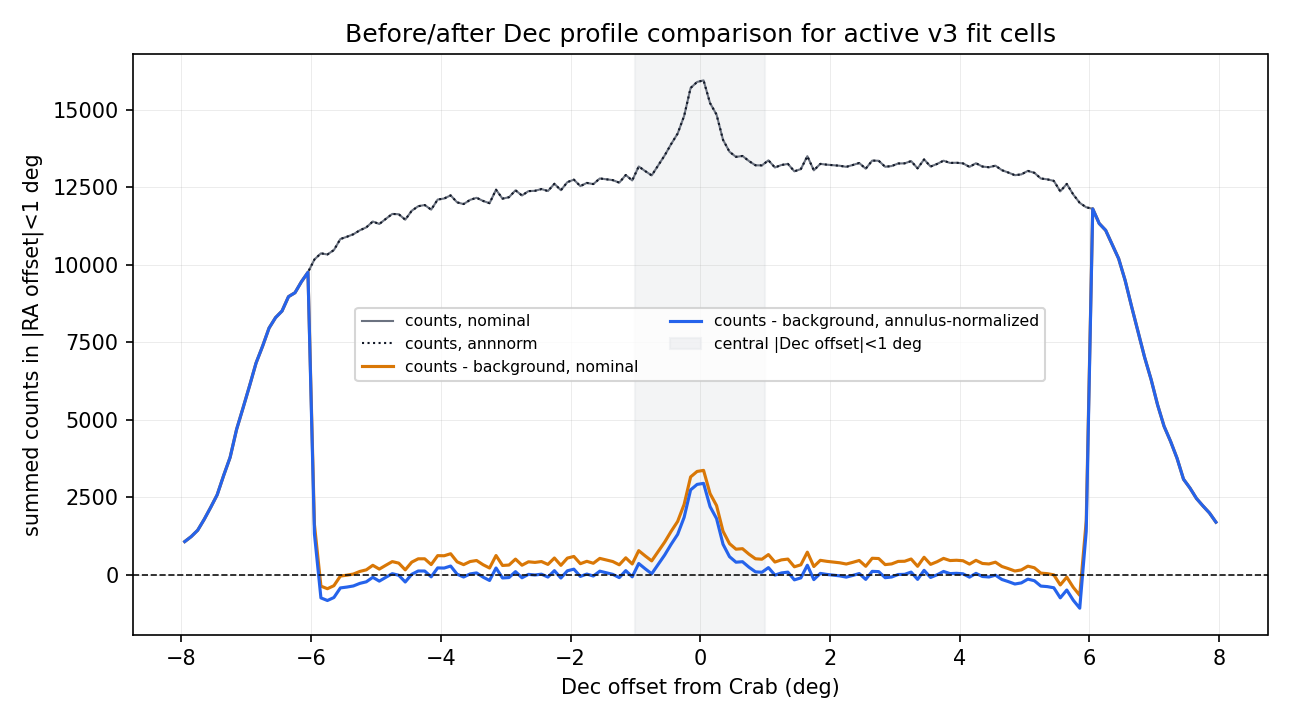
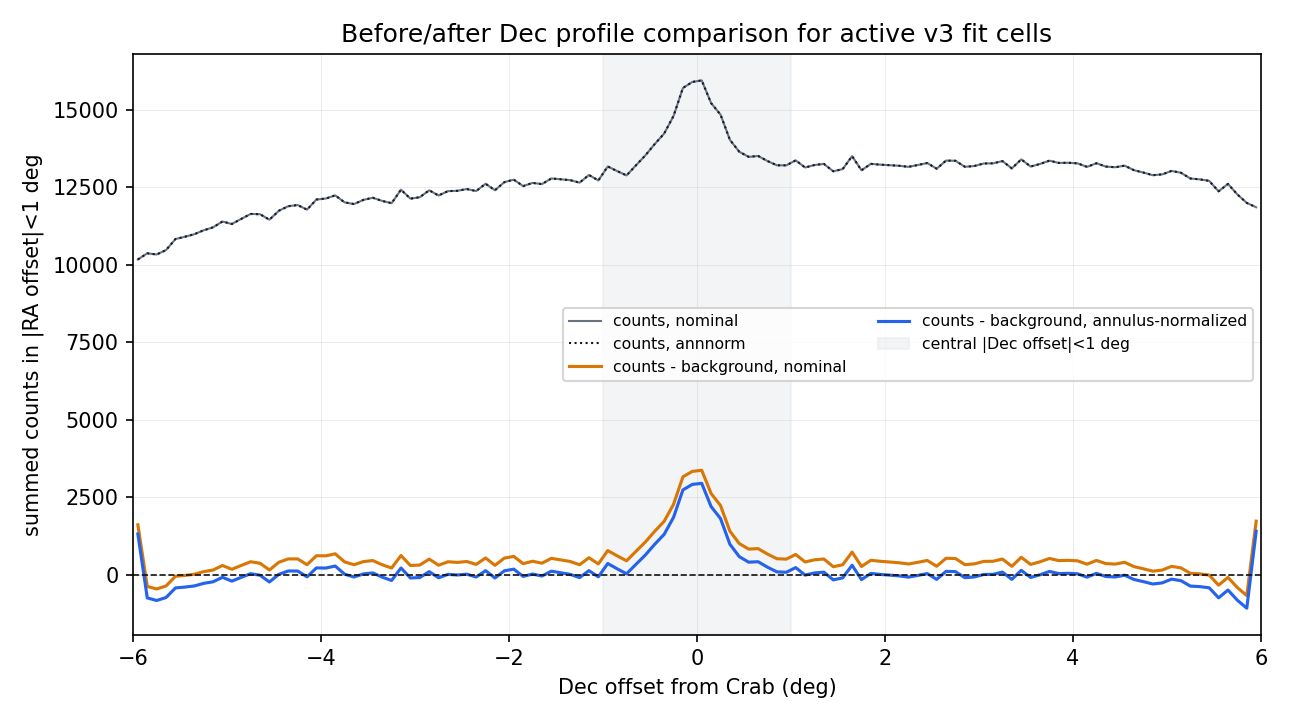
Limit annnorm Dec profile comparison to six degrees

diff --git a/apply/report/build_v3_annnorm_diagnostics.py b/apply/report/build_v3_annnorm_diagnostics.py
@@ -208,6 +208,12 @@ def plot_dec_profiles(nominal_npz: Path, annnorm_npz: Path, output: Path, fit_id
         return None
     y, counts_nom, excess_nom = nominal
     _, counts_new, excess_new = annnorm
+    roi_mask = np.abs(y) <= 6.0
+    y = y[roi_mask]
+    counts_nom = counts_nom[roi_mask]
+    excess_nom = excess_nom[roi_mask]
+    counts_new = counts_new[roi_mask]
+    excess_new = excess_new[roi_mask]
     plt = setup_matplotlib()
     fig, ax = plt.subplots(figsize=(8.6, 4.8), dpi=150)
     ax.plot(y, counts_nom, color="#6b7280", lw=1.0, label="counts, nominal")
@@ -216,6 +222,7 @@ def plot_dec_profiles(nominal_npz: Path, annnorm_npz: Path, output: Path, fit_id
     ax.plot(y, excess_new, color="#2563eb", lw=1.5, label="counts - background, annulus-normalized")
     ax.axhline(0.0, color="#111111", lw=0.8, ls="--")
     ax.axvspan(-1.0, 1.0, color="#e5e7eb", alpha=0.45, label="central |Dec offset|<1 deg")
+    ax.set_xlim(-6.0, 6.0)
     ax.set_xlabel("Dec offset from Crab (deg)")
     ax.set_ylabel("summed counts in |RA offset|<1 deg")
     ax.set_title("Before/after Dec profile comparison for active v3 fit cells")
